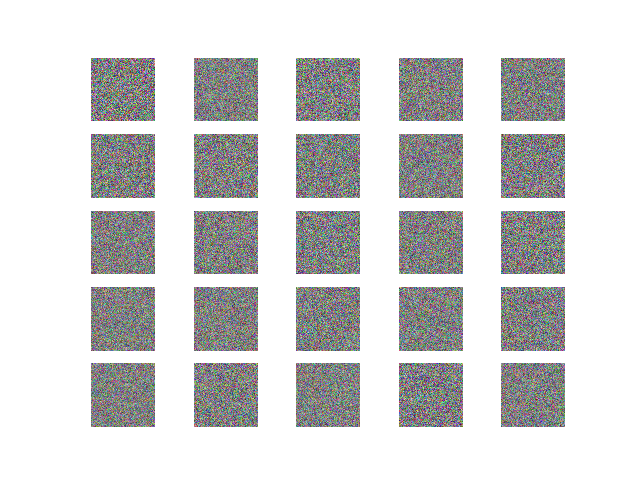
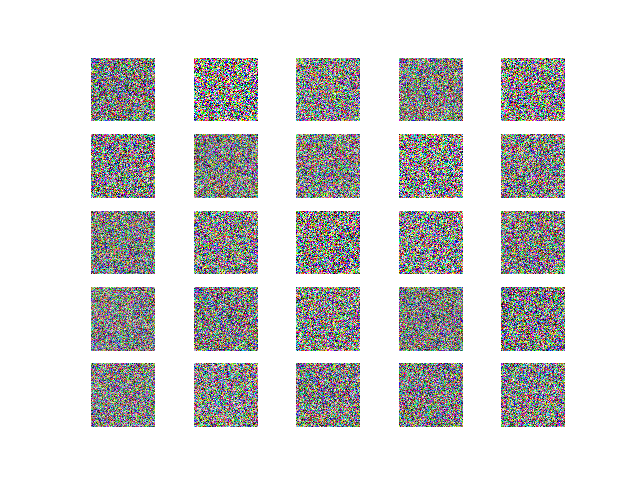
interesting behavior

diff --git a/train.py b/train.py
@@ -5,19 +5,18 @@ import matplotlib.pyplot as plt
 from models.basic import create_discriminator, create_generator
 from dataset import make_dataset
 
-from constants import BATCH_SIZE, IMAGE_SIZE, LATENT_DIM
+from constants import BATCH_SIZE, IMAGE_SIZE, LATENT_DIM, TOTAL_SAMPLES
 
 
 
 
 
 def train(epochs, discriminator, generator ):
-    optimizer = keras.optimizers.Adadelta()
-    optimizer_discriminator = keras.optimizers.Adam(0.0002, 0.5)
-    optimizer_combined = keras.optimizers.Adadelta()
+    optimizer_discriminator = keras.optimizers.Adadelta(0.9)
+    optimizer_combined = keras.optimizers.Adadelta(learning_rate=0.9)
     
-    valid = tf.ones((BATCH_SIZE, 1))
-    fake = tf.zeros((BATCH_SIZE, 1))
+    valid = tf.ones(TOTAL_SAMPLES)
+    fake = np.zeros(TOTAL_SAMPLES)
     dataset = make_dataset()
     dataset_iter = iter(dataset)
 
@@ -30,54 +29,56 @@ def train(epochs, discriminator, generator ):
     discriminator_for_combined.trainable = False
 
     # Build and compile the combined model
-    input_tensor = keras.Input(shape=(LATENT_DIM,))
-    generated_imgs = generator(input_tensor)
-    validity = discriminator_for_combined(generated_imgs)
-    combined = keras.models.Model(input_tensor, validity)
+    
+    
+    combined = keras.models.Sequential(
+        [generator, discriminator_for_combined]
+    )
     combined.compile(loss='binary_crossentropy', optimizer=optimizer_combined)
-    steps_per_epoch = 25933 // BATCH_SIZE
 
     for epoch in range(epochs):
         print(f"Epoch {epoch}")
         
-        for step in range(steps_per_epoch):
-            try:
-                imgs = next(dataset_iter)
-            except StopIteration:
-                # Reinitialize the iterator if it gets exhausted (shouldn't happen with repeat())
-                dataset_iter = iter(dataset)
-                imgs = next(dataset_iter)
-            try:
-                if len(imgs) != BATCH_SIZE:
-                    print("Batch size mismatch")
-                    continue
-                
-                noise = tf.random.normal((BATCH_SIZE, LATENT_DIM))                
-                gen_imgs = generator.predict(noise)
-                discriminator.trainable = True 
-                d_loss_real = discriminator.train_on_batch(imgs, valid)
-                d_loss_fake = discriminator.train_on_batch(gen_imgs, fake)
-                d_loss = 0.5 * np.add(d_loss_real, d_loss_fake)
+        
+
+        try:
+
+            noise = tf.random.normal((TOTAL_SAMPLES, LATENT_DIM))     
+            dataset.shuffle(10000)
+            gen_imgs = generator.predict_on_batch(noise)
+            
+            discriminator.trainable = True 
+            d_loss_real = discriminator.fit(dataset, verbose=1, epochs=1, steps_per_epoch=100, batch_size=BATCH_SIZE)
+            repeat = True
+            while repeat:
+                d_loss_fake = discriminator.fit(gen_imgs, fake, verbose=1,epochs=1, batch_size=BATCH_SIZE)
+                repeat = d_loss_fake.history["loss"][0] > 0.5
+            d_loss = 0.5 * np.add(d_loss_real.history["loss"][0], d_loss_fake.history["loss"][0])
+            d_acc = 0.5 * np.add(d_loss_real.history["accuracy"][0], d_loss_fake.history["accuracy"][0])
+        
             
                 
-                noise = tf.random.normal((BATCH_SIZE, LATENT_DIM))    
-                discriminator.trainable = False
-
-                g_loss = combined.train_on_batch(noise, valid)
-                
-                print(f"{epoch} [D loss: {d_loss[0]} acc: {100 * d_loss[1]}] [G loss: {g_loss}]")
-            except Exception as e:
-                print(e)
-                continue      
+            discriminator.trainable = False
+            discriminator_for_combined.set_weights(discriminator.get_weights())
+            
+            repeat = True
+            while repeat:
+                noise = tf.random.normal((TOTAL_SAMPLES, LATENT_DIM))
+                g_loss = combined.fit(noise, valid, verbose=1,epochs=1,  batch_size=BATCH_SIZE).history["loss"][-1]
+                repeat = g_loss > 1
+            print(f"{epoch} [D loss: {d_loss} acc: {100 * d_acc} [G loss: {g_loss}]")
+        except Exception as e:
+            print(e)
+            continue      
         if epoch % 1 == 0:
-            save_imgs(epoch, generator)
-        if epoch % 100 == 0:
+            save_imgs(epoch, generator,[ x for x in iter(dataset.take(1))])
+        if epoch % 10 == 0:
             generator.save(f".\\saved_models\\generator_{epoch}.keras")
             discriminator.save(f".\\saved_models\\discriminator_{epoch}.keras")
     
     print("Training complete")
             
-def save_imgs(epoch, generator):
+def save_imgs(epoch, generator, img):
     r, c = 5, 5
     noise = np.random.normal(0, 1, (r * c, LATENT_DIM))
     gen_imgs = generator.predict(noise)
@@ -87,7 +88,7 @@ def save_imgs(epoch, generator):
     fig, axs = plt.subplots(r, c)
     cnt = 0
     for i in range(r):
-        for j in range(c):
+        for j in range(c): 
             axs[i,j].imshow(gen_imgs[cnt])
             axs[i,j].axis('off')
             cnt += 1
@@ -95,7 +96,9 @@ def save_imgs(epoch, generator):
     plt.close()
 
 try:
-    train(epochs=10000, discriminator=create_discriminator(), generator=create_generator()) 
+    #loaded_generator = keras.models.load_model(".\\saved_models\\generator_40.keras")
+    #loaded_discriminator = keras.models.load_model(".\\saved_models\\discriminator_40.keras")
+    train(epochs=1000, discriminator=create_discriminator(), generator=create_generator()) 
 except Exception as e:
     print(e)
     print("An error occurred during training")

diff --git a/yoinked.py b/yoinked.py
@@ -1,0 +1,162 @@
+from __future__ import print_function, division
+import keras
+from keras.layers import Input, Dense, Reshape, Flatten, Dropout
+from keras.layers import BatchNormalization, Activation, ZeroPadding2D
+from keras.layers import LeakyReLU
+from keras.models import Sequential, Model
+from keras.optimizers import Adam
+
+from dataset import make_dataset
+
+import matplotlib.pyplot as plt
+
+import sys
+
+import numpy as np
+
+class GAN():
+    def __init__(self):
+        self.img_rows = 64
+        self.img_cols = 64
+        self.channels = 3
+        self.img_shape = (self.img_rows, self.img_cols, self.channels)
+        self.latent_dim = 100
+
+        optimizer = Adam(0.0002, 0.5)
+
+        # Build and compile the discriminator
+        self.discriminator = self.build_discriminator()
+        self.discriminator.compile(loss='binary_crossentropy',
+            optimizer=optimizer,
+            metrics=['accuracy'])
+
+        # Build the generator
+        self.generator = self.build_generator()
+
+        # The generator takes noise as input and generates imgs
+        z = Input(shape=(self.latent_dim,))
+        img = self.generator(z)
+
+        # For the combined model we will only train the generator
+        self.discriminator.trainable = False
+
+        # The discriminator takes generated images as input and determines validity
+        validity = self.discriminator(img)
+
+        # The combined model  (stacked generator and discriminator)
+        # Trains the generator to fool the discriminator
+        self.combined = Model(z, validity)
+        self.combined.compile(loss='binary_crossentropy', optimizer=optimizer)
+
+
+    def build_generator(self):
+
+        model = Sequential()
+
+        model.add(Dense(256, input_dim=self.latent_dim))
+        model.add(LeakyReLU(alpha=0.2))
+        model.add(BatchNormalization(momentum=0.8))
+        model.add(Dense(512))
+        model.add(LeakyReLU(alpha=0.2))
+        model.add(BatchNormalization(momentum=0.8))
+        model.add(Dense(1024))
+        model.add(LeakyReLU(alpha=0.2))
+        model.add(BatchNormalization(momentum=0.8))
+        model.add(Dense(np.prod(self.img_shape), activation='tanh'))
+        model.add(Reshape(self.img_shape))
+
+        model.summary()
+
+        noise = Input(shape=(self.latent_dim,))
+        img = model(noise)
+
+        return Model(noise, img)
+
+    def build_discriminator(self):
+
+        model = Sequential()
+
+        model.add(Flatten(input_shape=self.img_shape))
+        model.add(Dense(512))
+        model.add(LeakyReLU(alpha=0.2))
+        model.add(Dense(256))
+        model.add(LeakyReLU(alpha=0.2))
+        model.add(Dense(1, activation='sigmoid'))
+        model.summary()
+
+        img = Input(shape=self.img_shape)
+        validity = model(img)
+
+        return Model(img, validity)
+
+    def train(self, epochs, batch_size=128, sample_interval=50):
+
+        # Load the dataset
+        X_train = make_dataset().repeat(1000)
+        X_train = X_train.__iter__()
+        
+
+       
+
+        # Adversarial ground truths
+        valid = np.ones((batch_size, 1))
+        fake = np.zeros((batch_size, 1))
+
+        for epoch in range(epochs):
+
+            # ---------------------
+            #  Train Discriminator
+            # ---------------------
+
+            # Select a random batch of images
+            
+            imgs = next(X_train)
+
+            noise = np.random.normal(0, 1, (batch_size, self.latent_dim))
+
+            # Generate a batch of new images
+            gen_imgs = self.generator.predict(noise)
+
+            # Train the discriminator
+            d_loss_real = self.discriminator.train_on_batch(imgs, valid)
+            d_loss_fake = self.discriminator.train_on_batch(gen_imgs, fake)
+            d_loss = 0.5 * np.add(d_loss_real, d_loss_fake)
+
+            # ---------------------
+            #  Train Generator
+            # ---------------------
+
+            noise = np.random.normal(0, 1, (batch_size, self.latent_dim))
+
+            # Train the generator (to have the discriminator label samples as valid)
+            g_loss = self.combined.train_on_batch(noise, valid)
+
+            # Plot the progress
+            print ("%d [D loss: %f, acc.: %.2f%%] [G loss: %f]" % (epoch, d_loss[0], 100*d_loss[1], g_loss))
+
+            # If at save interval => save generated image samples
+            if epoch % sample_interval == 0:
+                self.sample_images(epoch)
+
+    def sample_images(self, epoch):
+        r, c = 5, 5
+        noise = np.random.normal(0, 1, (r * c, self.latent_dim))
+        gen_imgs = self.generator.predict(noise)
+
+        # Rescale images 0 - 1
+        gen_imgs = 0.5 * gen_imgs + 0.5
+
+        fig, axs = plt.subplots(r, c)
+        cnt = 0
+        for i in range(r):
+            for j in range(c):
+                axs[i,j].imshow(gen_imgs[cnt, :,:,0], cmap='gray')
+                axs[i,j].axis('off')
+                cnt += 1
+        fig.savefig("images/%d.png" % epoch)
+        plt.close()
+
+
+if __name__ == '__main__':
+    gan = GAN()
+    gan.train(epochs=30000, batch_size=32, sample_interval=200)

diff --git a/models/basic.py b/models/basic.py
@@ -9,10 +9,13 @@ def create_generator():
     model = keras.models.Sequential([
         keras.layers.InputLayer(input_shape=(LATENT_DIM,)),
         keras.layers.Dense(LATENT_DIM * 5),
-        keras.layers.LeakyReLU(),
+        keras.layers.LeakyReLU(alpha=0.2),
         keras.layers.BatchNormalization(momentum=0.8),
         keras.layers.Dense(LATENT_DIM * 10),
-        keras.layers.LeakyReLU(),
+        keras.layers.LeakyReLU(alpha=0.2),
+        keras.layers.BatchNormalization(momentum=0.8),
+        keras.layers.Dense(LATENT_DIM * 20),
+        keras.layers.LeakyReLU(alpha=0.2),
         keras.layers.BatchNormalization(momentum=0.8),
         keras.layers.Dense(np.prod((IMAGE_SIZE, IMAGE_SIZE, 3)), activation='tanh'),
         keras.layers.Reshape((IMAGE_SIZE, IMAGE_SIZE, 3)),

diff --git a/dataset.py b/dataset.py
@@ -4,9 +4,9 @@ import keras
 
 from constants import BATCH_SIZE, IMAGE_SIZE
 
-image_path = ".\\images\\input\\data"
+image_path = ".\\images\\input\\data\\collected_images"
 
-def make_dataset():
+def make_dataset() -> tf.data.Dataset:
     dataset = keras.utils.image_dataset_from_directory(
         image_path,
         labels=None,
@@ -18,5 +18,7 @@ def make_dataset():
     )
     # Repeat the dataset indefinitely
     dataset = dataset.map(lambda x: x / 255.0)
+    
     dataset = dataset.repeat()  
+    dataset = dataset.map(lambda x: (x, tf.ones((BATCH_SIZE,))))
     return dataset

diff --git a/models/basictorch.py b/models/basictorch.py
@@ -1,0 +1,1 @@
+import torch
